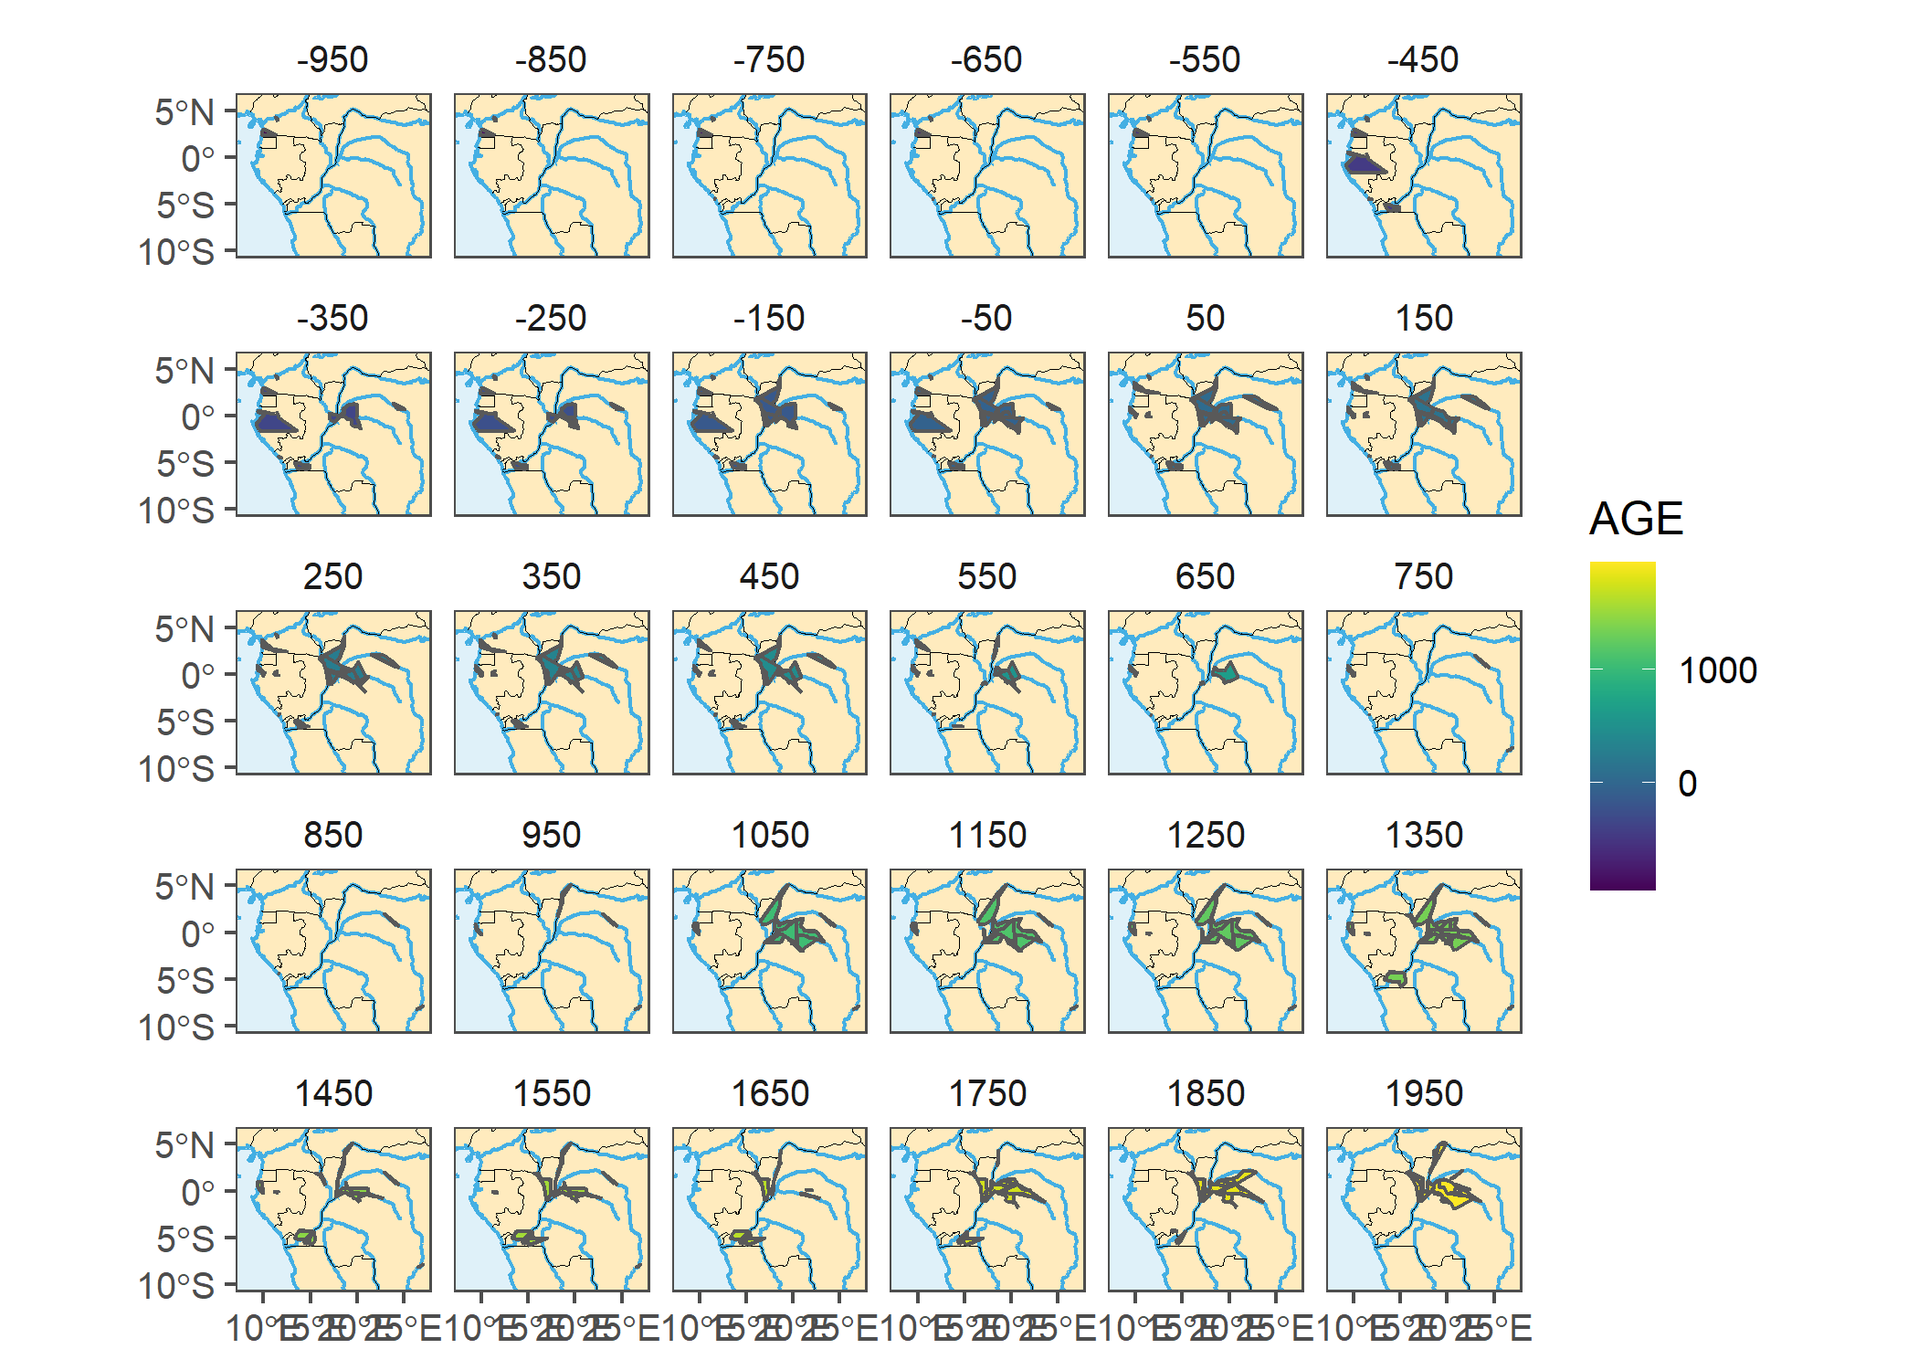
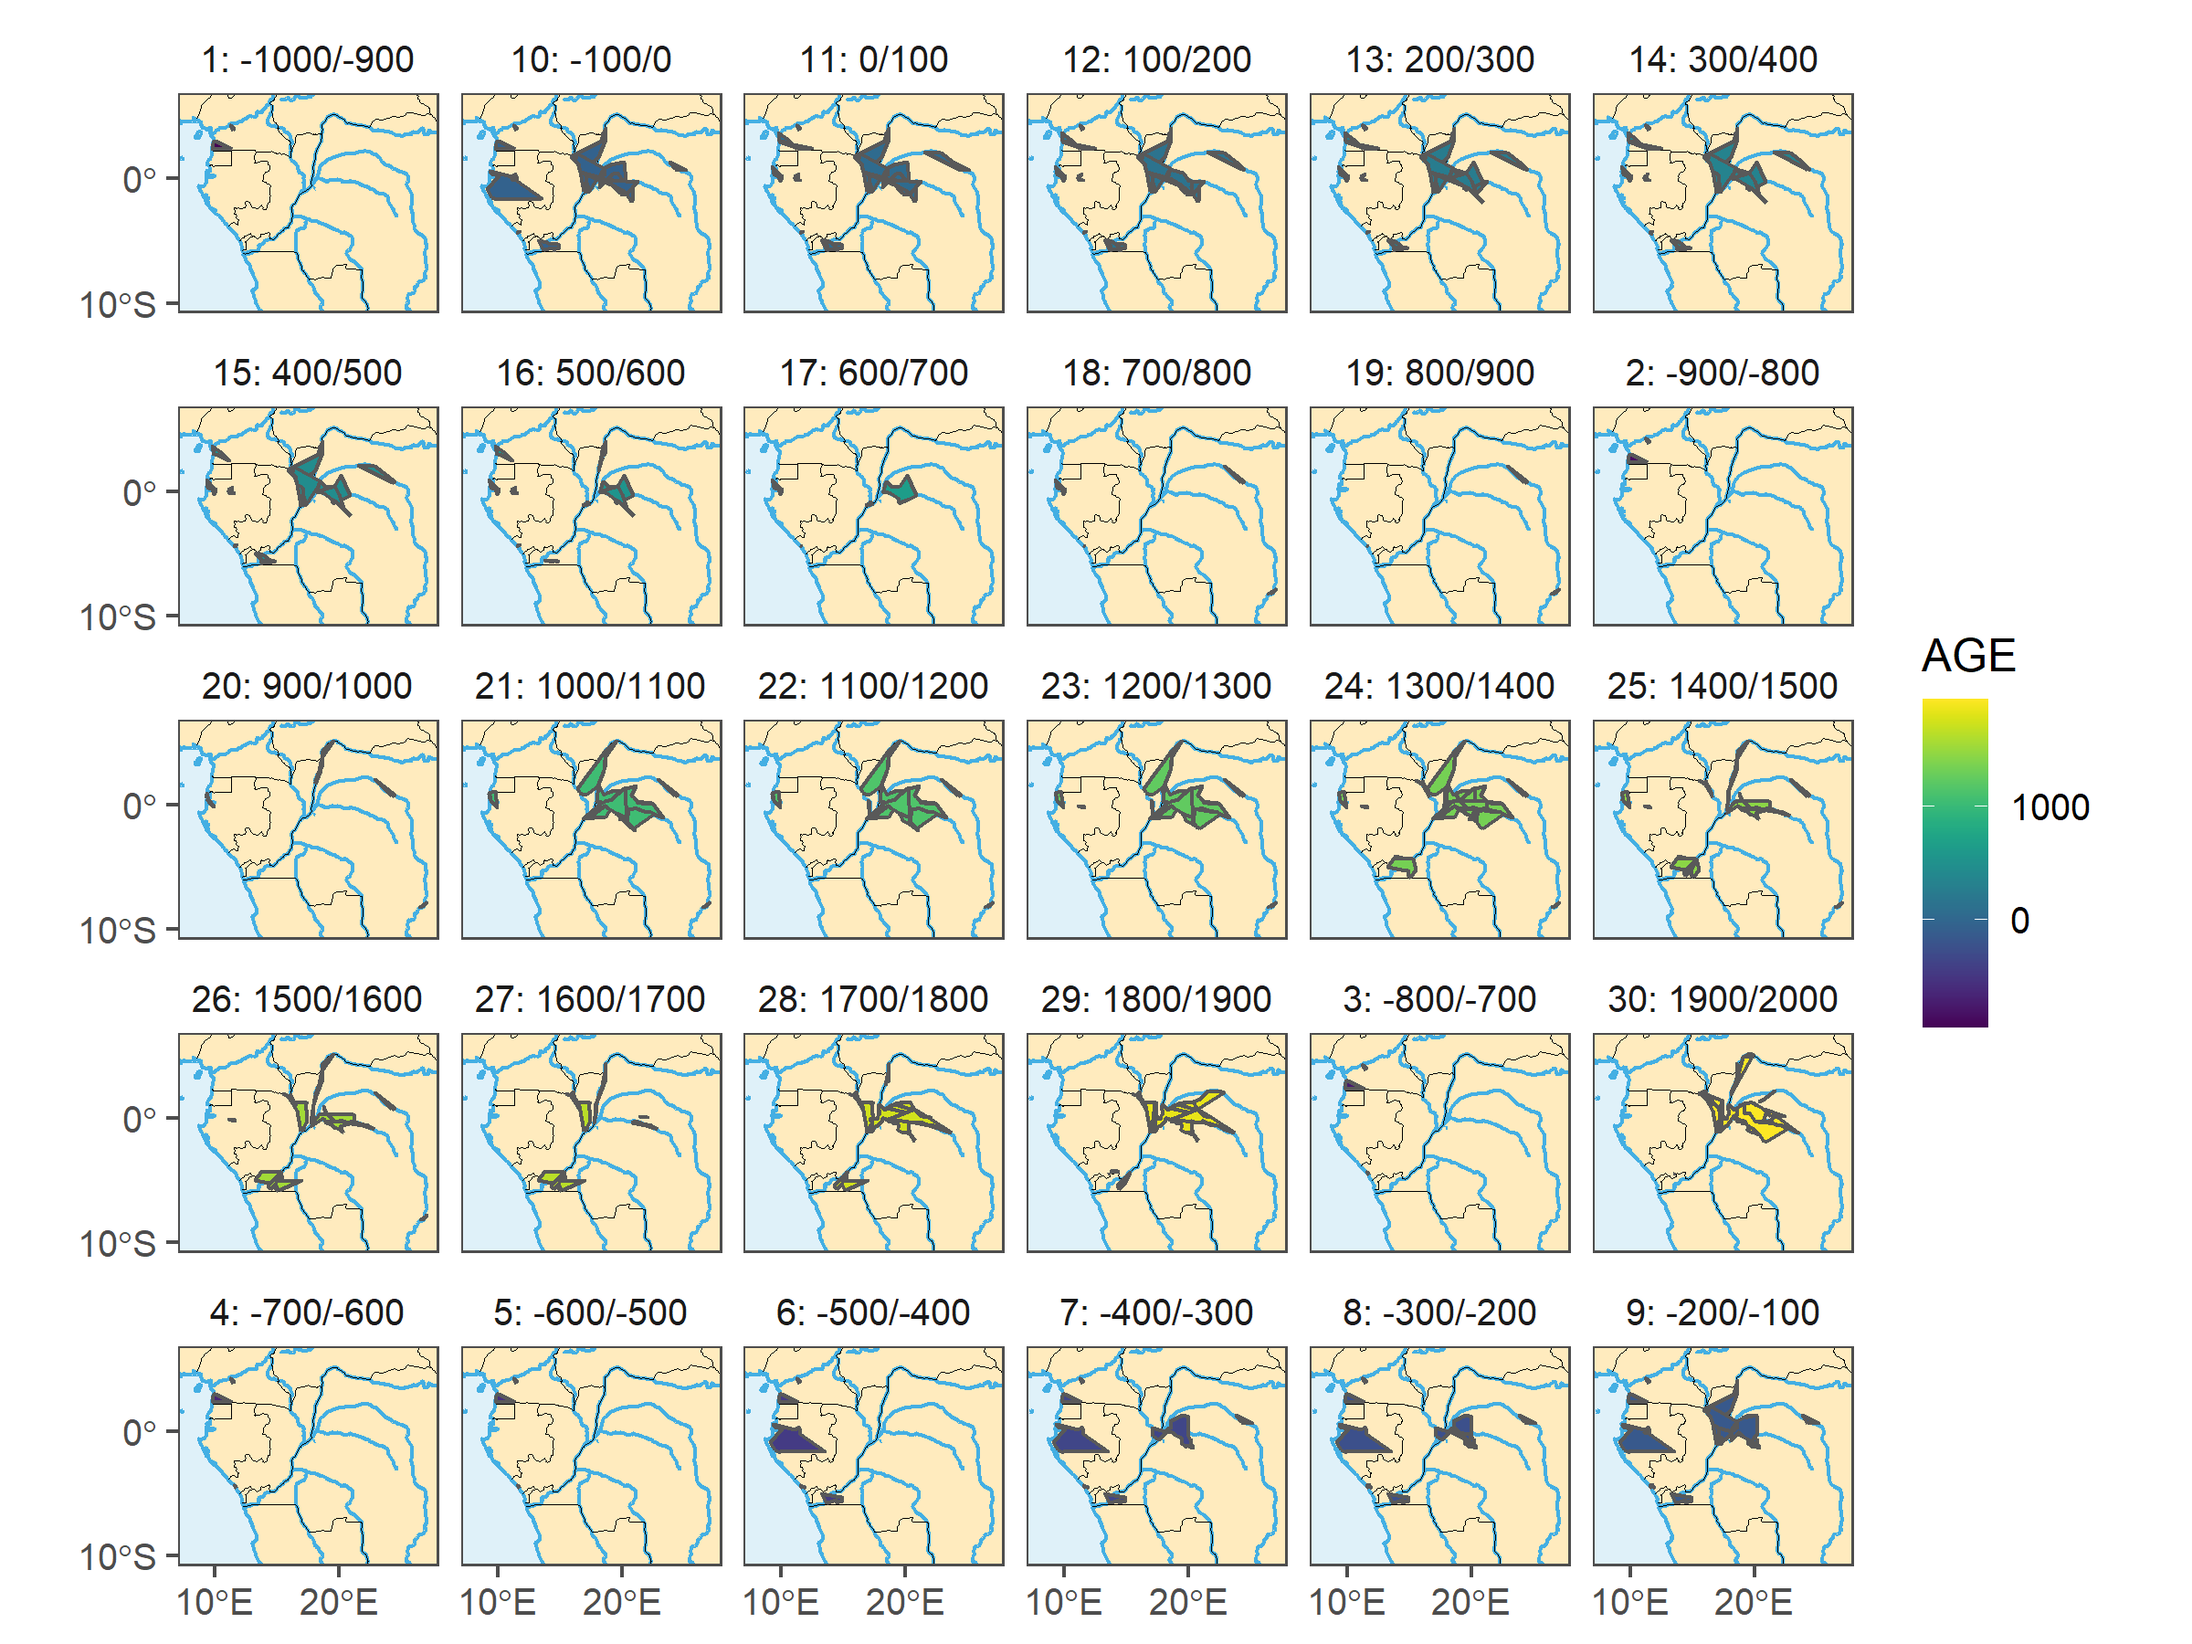
added figure median distances

diff --git a/README.md b/README.md
@@ -13,14 +13,25 @@ Rainforest from AD 400 Urges Reassessment of the Bantu Expansion.
 Science Advances 7. <https://doi.org/10.1126/sciadv.abd8352>. (data:
 <https://github.com/dirkseidensticker/HumActCentralAfrica_Paper>)
 
-Some basic statistics (see Fig. 3 in [Seidensticker et
-al. 2021](https://advances.sciencemag.org/content/7/7/eabd8352))
+<div class="figure" style="text-align: center">
 
-<img src="README_files/figure-gfm/stats-1.png" width="75%" style="display: block; margin: auto;" />
+<img src="README_files/figure-gfm/stats-1.png" alt="Fig. 1: Evolution of the numerical abundance and geographical distribution of pottery styles in the Congo rainforest over the past 3000 years (see Seidensticker et al. 2021: Fig. 3)." width="75%" />
+<p class="caption">
+Fig. 1: Evolution of the numerical abundance and geographical
+distribution of pottery styles in the Congo rainforest over the past
+3000 years (see Seidensticker et al. 2021: Fig. 3).
+</p>
 
-Map of the distribution areas of pottery styles through time:
+</div>
 
-<img src="README_files/figure-gfm/map-1.png" width="100%" style="display: block; margin: auto;" />
+<div class="figure" style="text-align: center">
+
+<img src="README_files/figure-gfm/map-1.png" alt="Fig. 2: Map of the distribution areas of pottery styles through time" width="100%" />
+<p class="caption">
+Fig. 2: Map of the distribution areas of pottery styles through time
+</p>
+
+</div>
 
 ## Datasets
 
